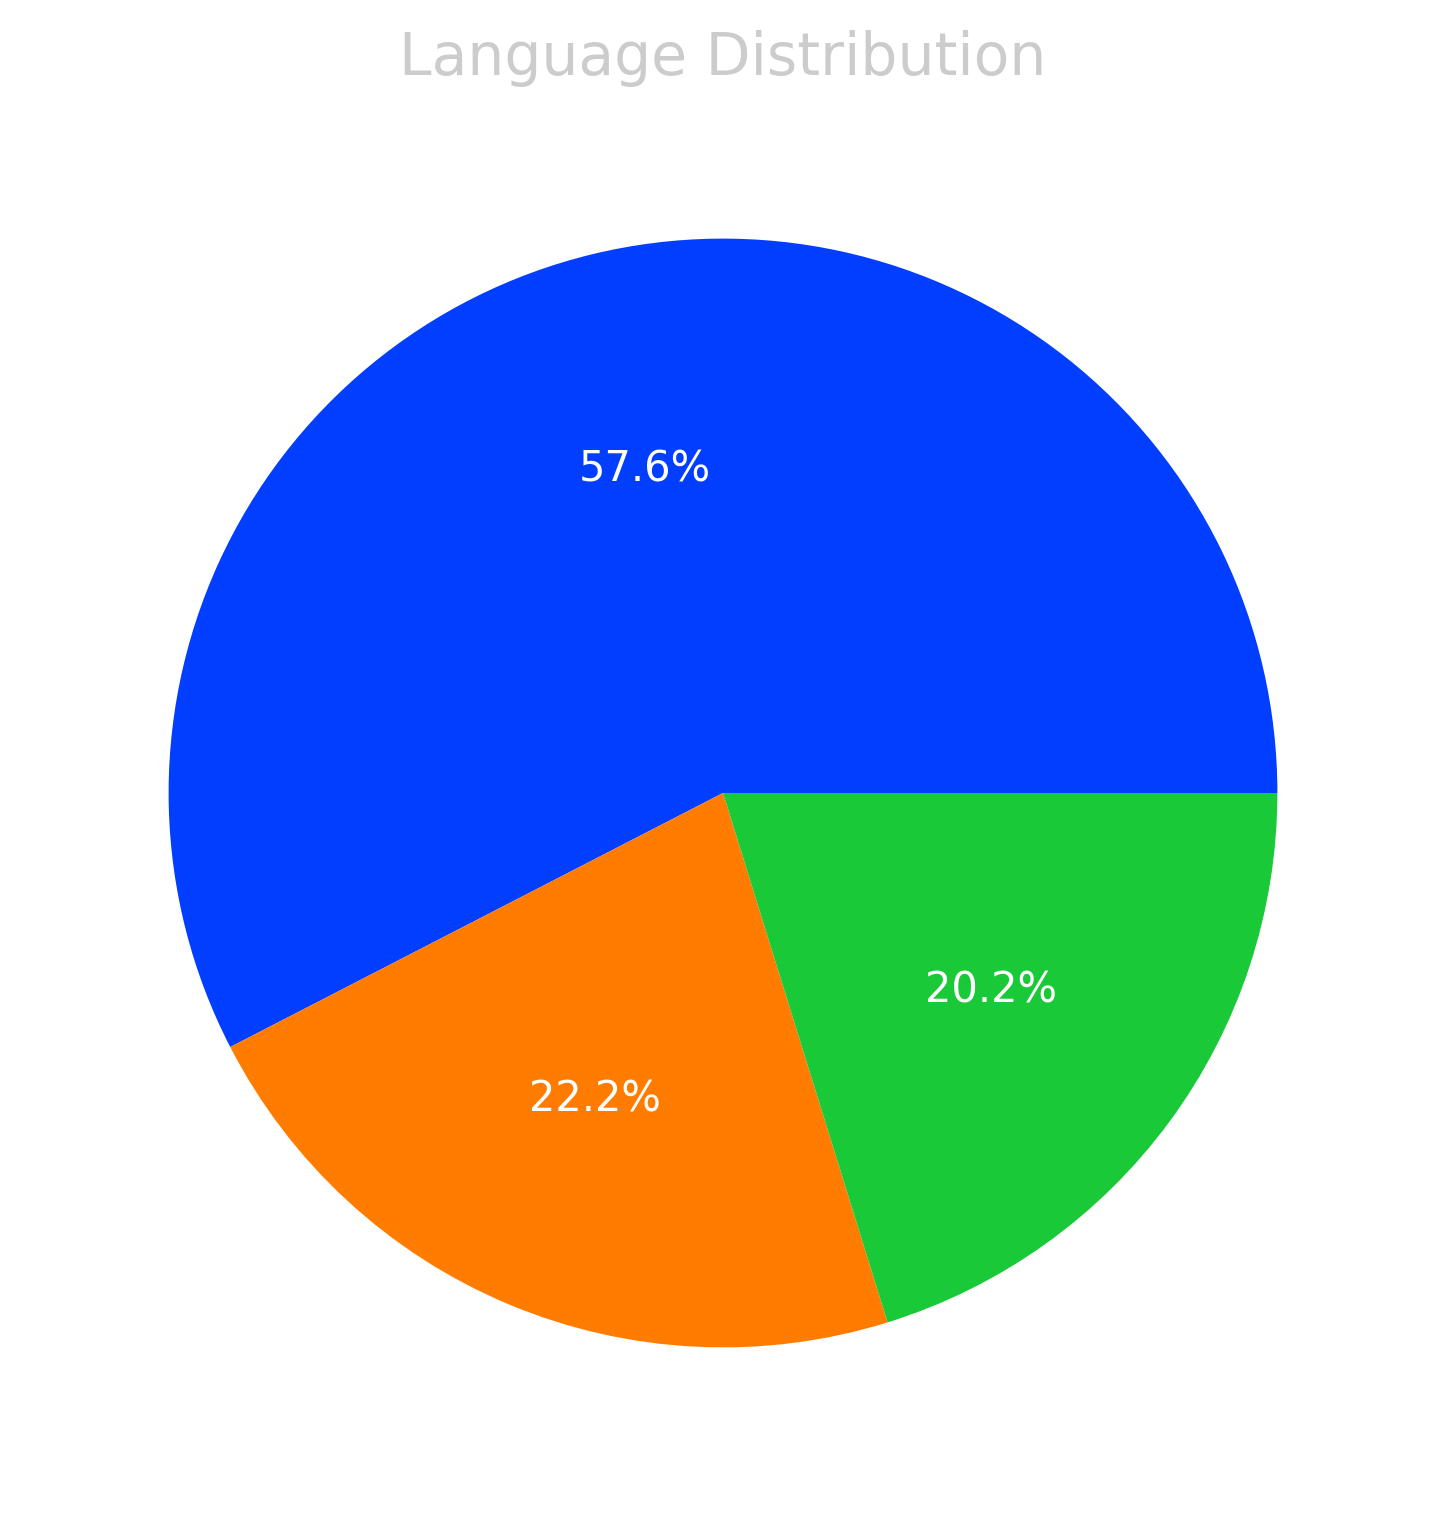
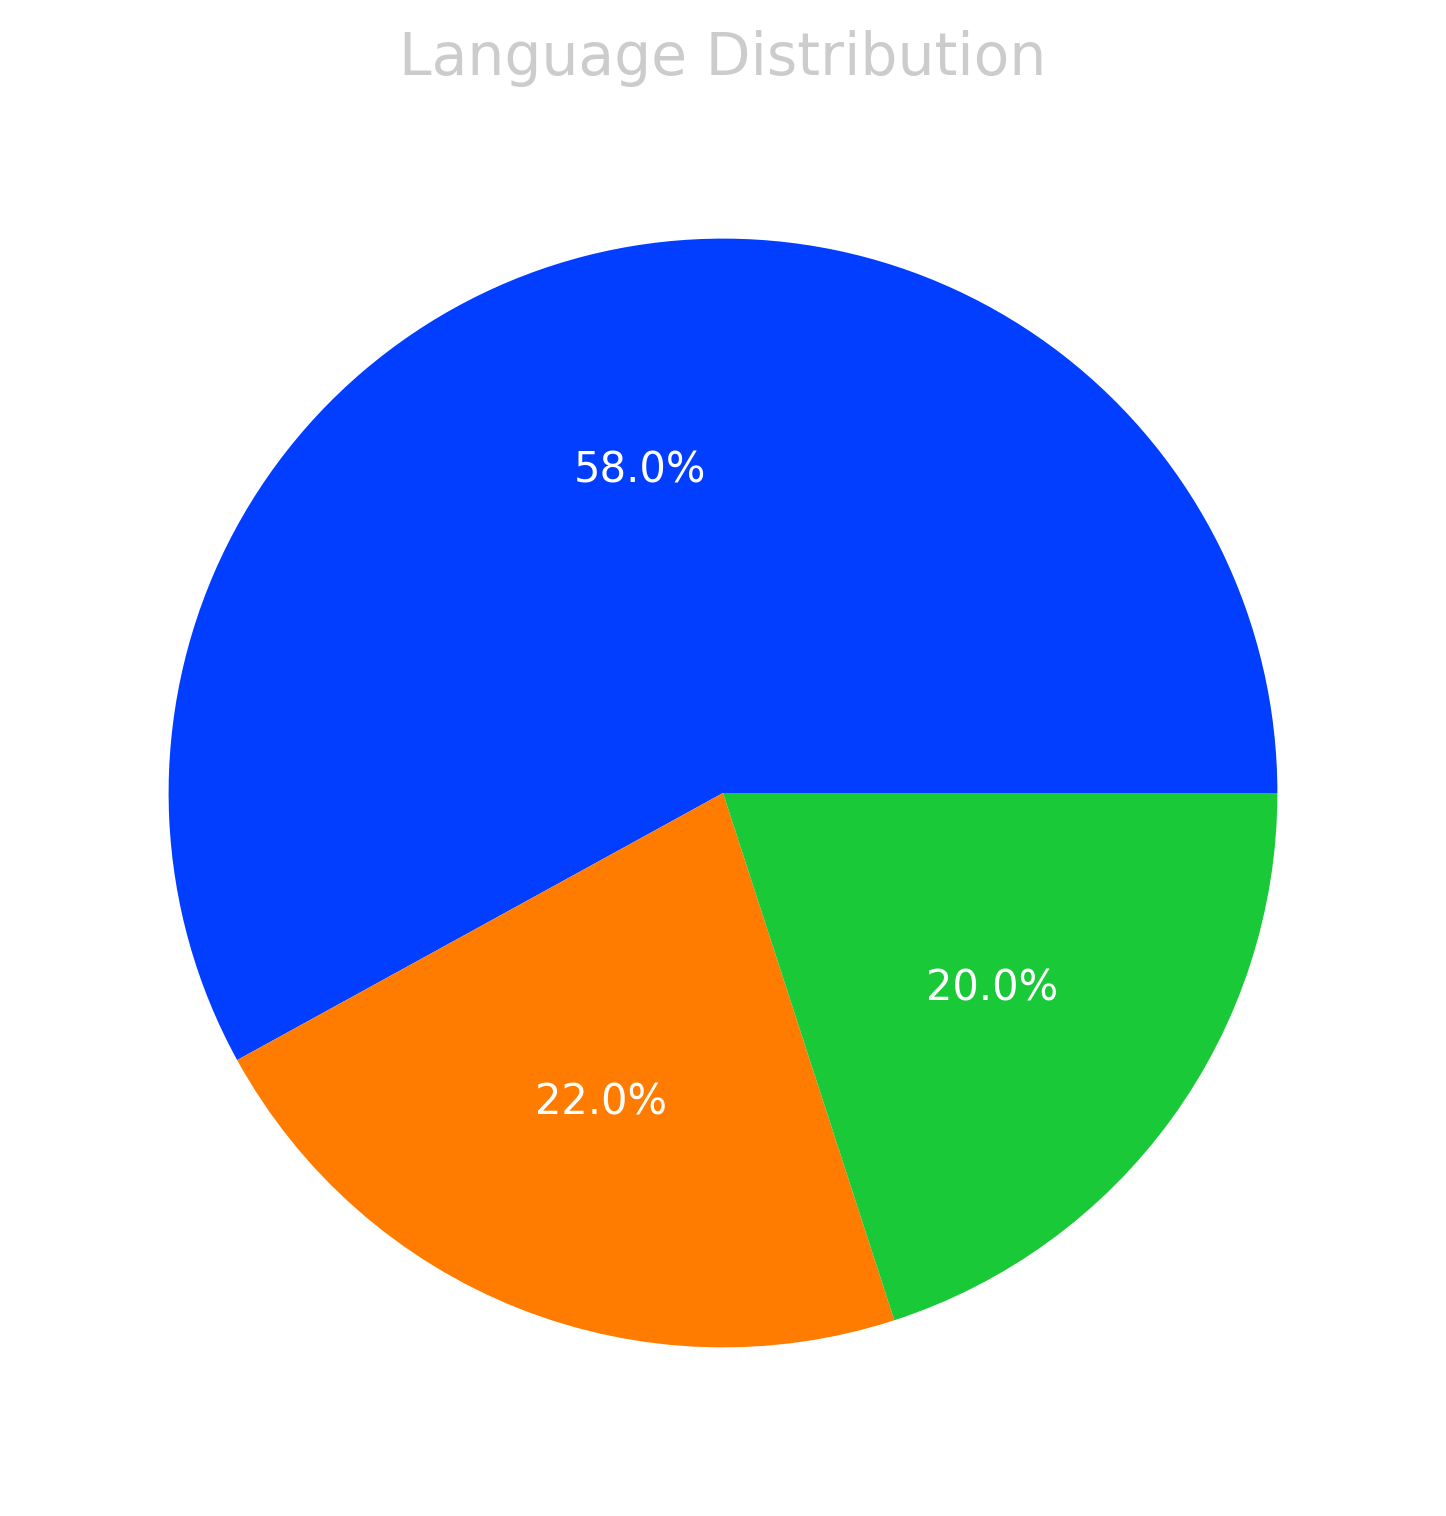
Update stats and visuals

diff --git a/README.md b/README.md
@@ -42,7 +42,7 @@
 - **Memory:** `65.60MB` (Top 66.95%)
 
 ## Language Statistics
-- **PY**: 57 files
+- **PY**: 58 files
 - **JAVA**: 22 files
 - **SQL**: 20 files
 
